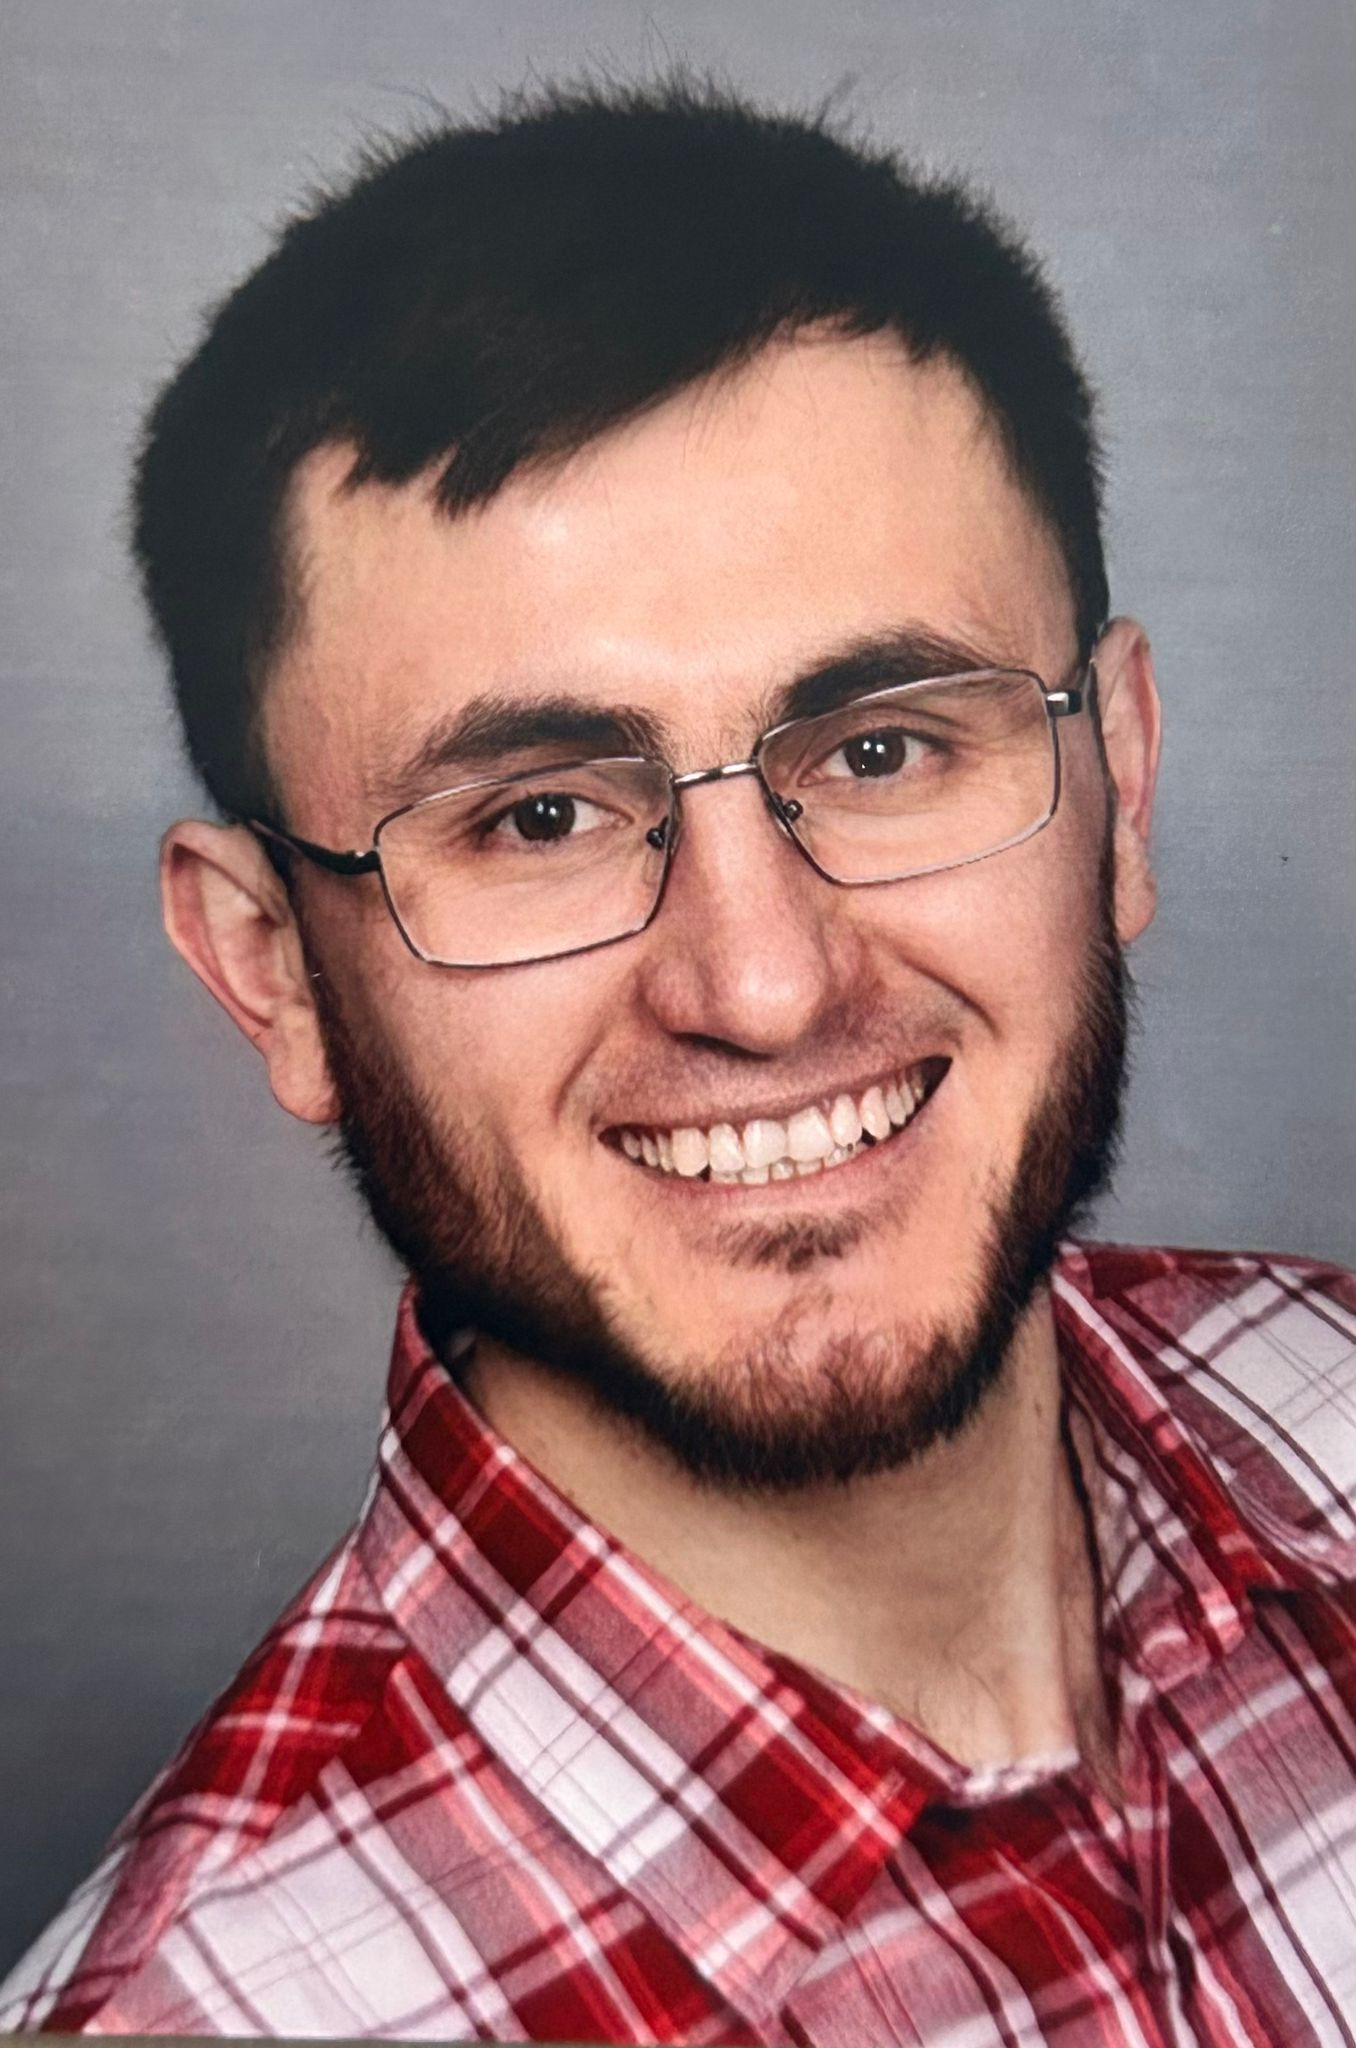
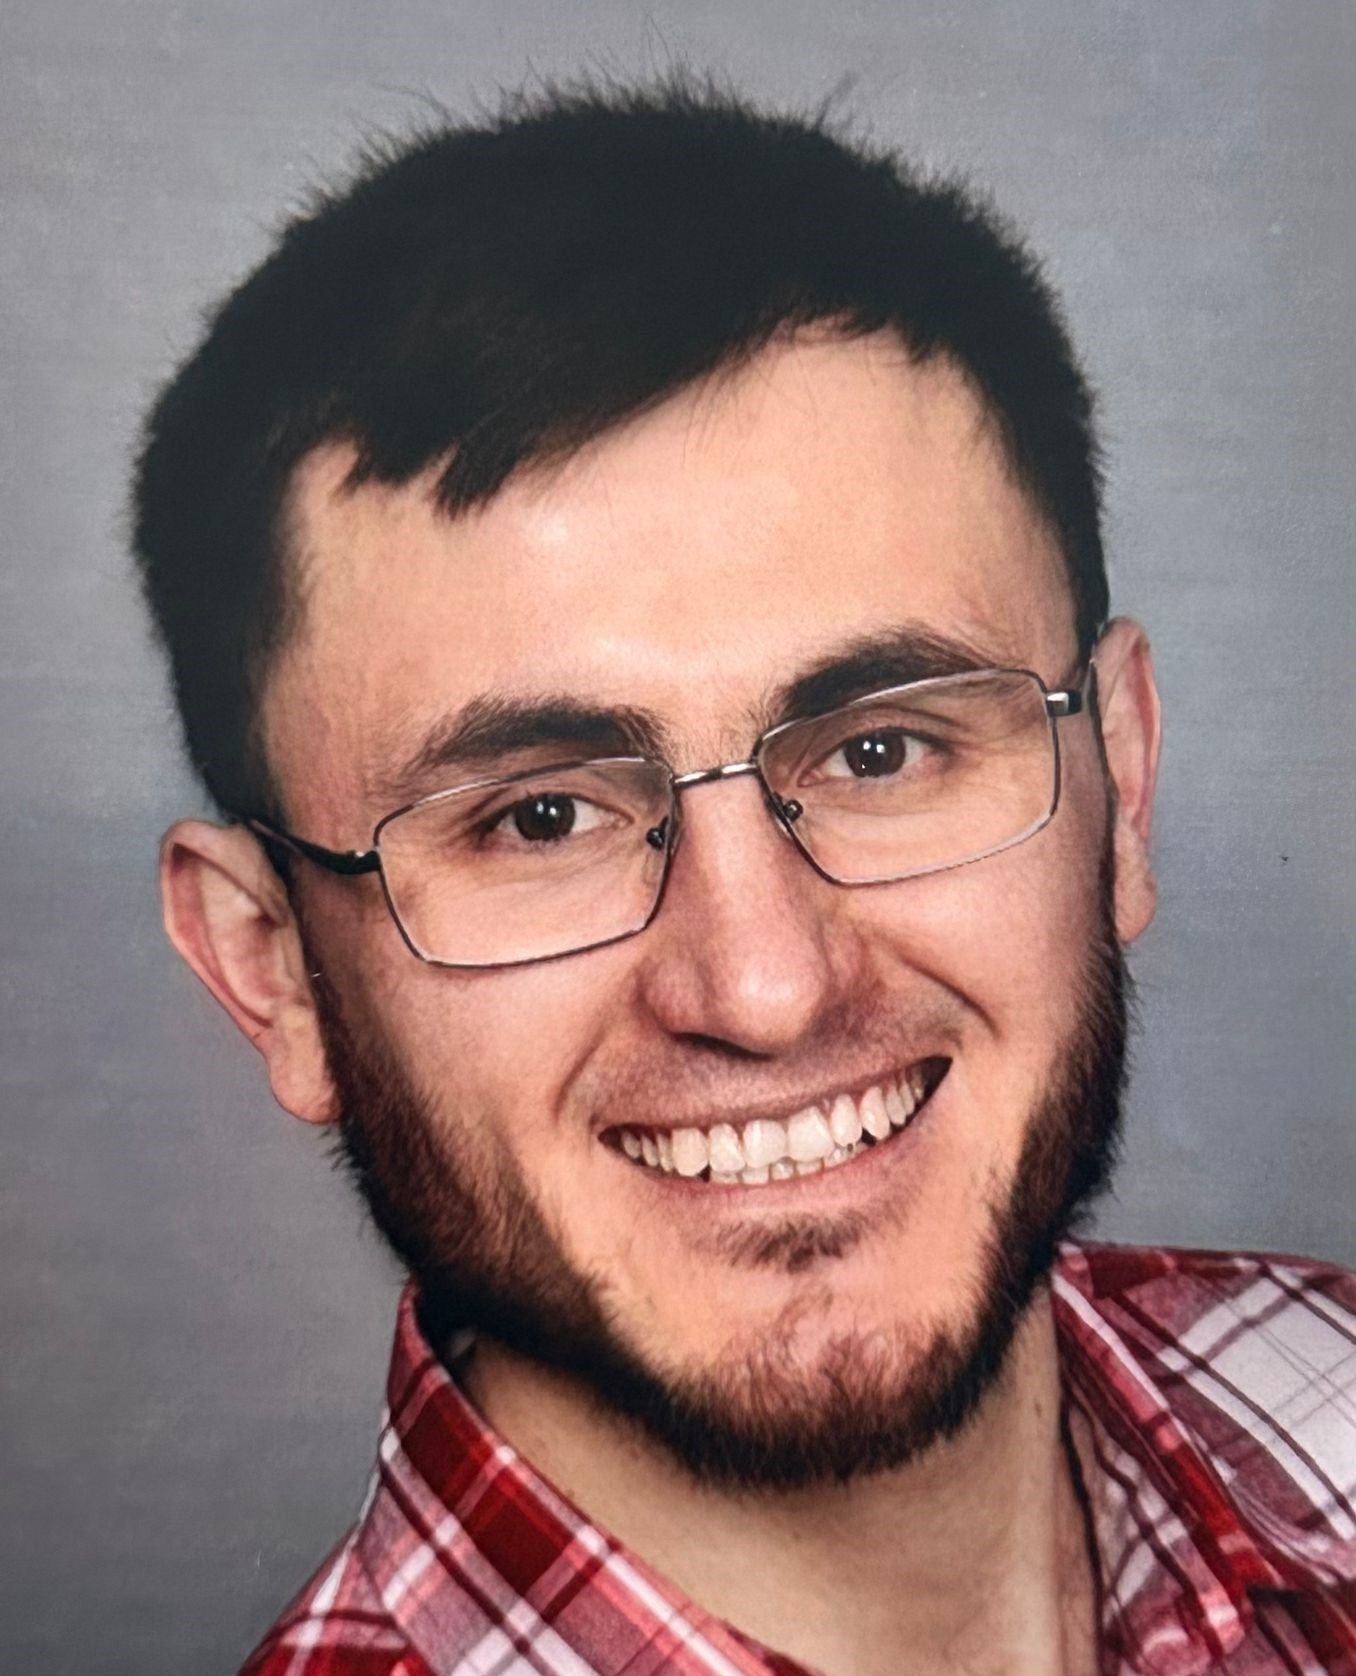
Add files via upload

diff --git a/resume.css b/resume.css
@@ -34,7 +34,7 @@ a:active {
 
 .avatar {
   width: 200px;
-  height: 200px;
+  height: 250px;
   border-radius: 28px;
   box-shadow: 4px 4px 14px rgba(0, 0, 0, 0.25);
 }
